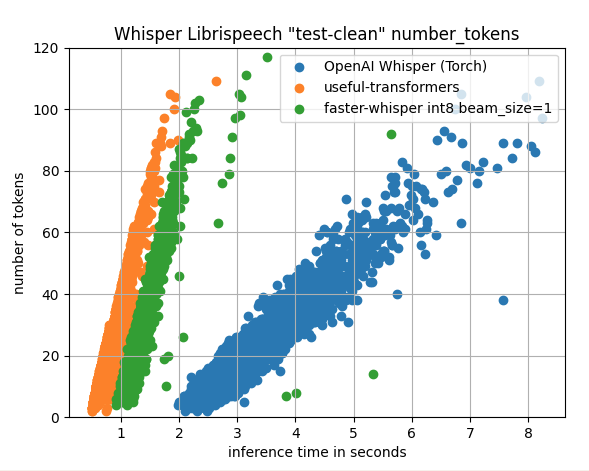
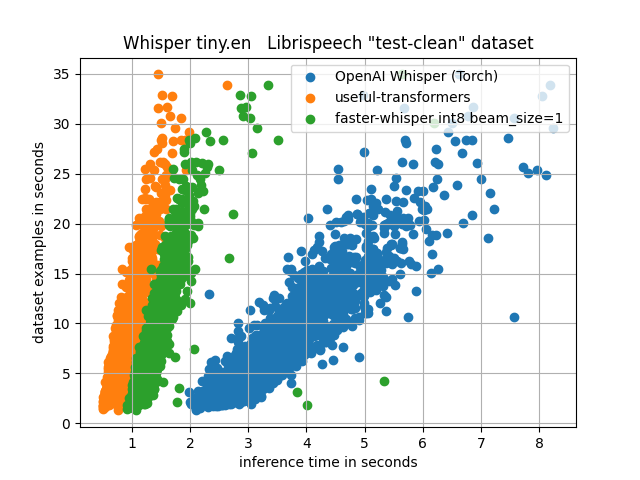
Update perf section in README

diff --git a/README.md b/README.md
@@ -21,6 +21,8 @@ If you don't have a wav file handy, running the above command will transcribe an
 
 ![Performance comparison](https://github.com/usefulsensors/useful-transformers/blob/main/examples/whisper/assets/perf-comparison.png)
 
+The plot shows `useful-transformers` Whisper `tiny.en` model's inference times across the examples with varying durations. `useful-transformer` is 2x faster than `faster-whisper`'s int8 implementation. `useful-transformer` uses FP16 matrix multiplication on the NPU available in the RK3588 processor. The majority of benefit comes from the large matrix multiplications (of sizes `1500x384x384` for the tiny.en model) in the encoder.
+
 ## TODO
 
  - [x] Whisper tiny.en
